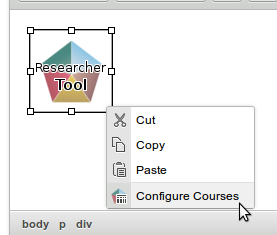
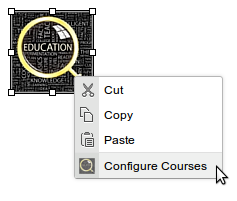
Fix researcher-training images

diff --git a/researcher-training-tool.html b/researcher-training-tool.html
@@ -9,7 +9,7 @@
   <ol>
     <li>
       <p>Click on the Researcher Training Tool icon.</p>
-      <p><img src="images/researcher-training-tool/show-icon.png"/></p>
+      <p class="icon"><img src="https://rawgit.com/ox-it/wl-ck-plugins/master/researcher-training-tool/icons/researcher-training-tool.png"/></p>
     </li>
     <li>
       <p>
@@ -83,7 +83,7 @@
         When you are finished configuring the courses, click OK to embed the
         tool.
       </p>
-      <p><img src="images/researcher-training-tool/embed.png"/></p>
+      <p class="placeholder"><img src="https://rawgit.com/ox-it/wl-ck-plugins/master/researcher-training-tool/icons/placeholder.png"/></p>
     </li>
     <li>
       <p>
